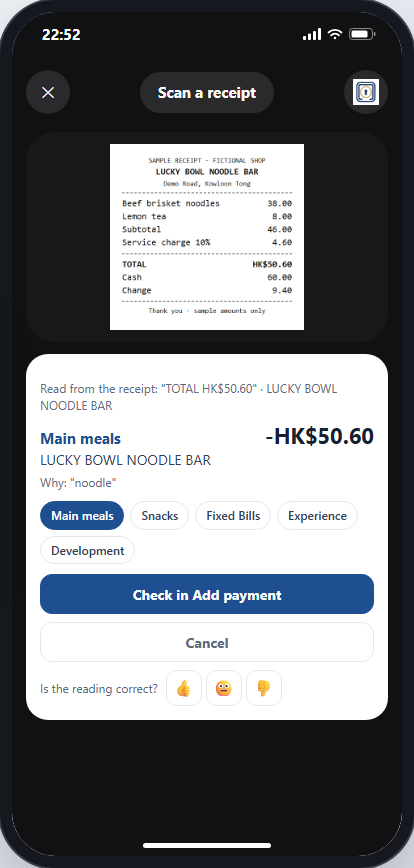
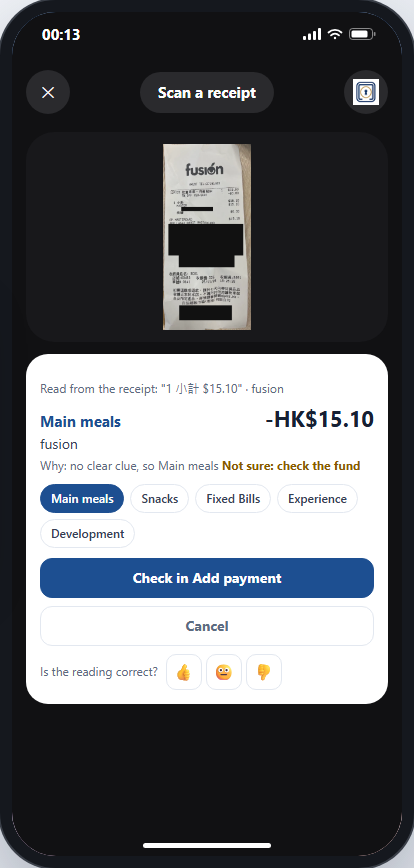
README: TestFlight steps, demo button, new demo screenshots; remove the limits and the video

diff --git a/backend/tests/test_readme.py b/backend/tests/test_readme.py
@@ -40,10 +40,6 @@ class Readme(unittest.TestCase):
             with self.subTest(path=path):
                 self.assertTrue((ROOT / path).is_file(), path)
 
-    def test_demo_video_link(self):
-        line = next((l for l in text().splitlines() if l.startswith("Demo video:")), "")
-        self.assertEqual(line, "Demo video: https://youtu.be/dwNjo46av5E")
-
     def test_no_long_dashes(self):
         self.assertNotIn("—", text())
         self.assertNotIn("–", text())

diff --git a/README.md b/README.md
@@ -4,9 +4,16 @@
 
 **A weekly budget for university students in Hong Kong that tells you what you can spend on food today, and where near campus that money still buys a meal.** Built for BUHack 2.0 (FinTech track).
 
-**Live demo:** <https://ssust-api.onrender.com> (Demo mode, sample week). It runs on Render's free plan, so after a quiet spell the first visit can take about a minute while the server wakes up. On a screen wider than 900 px the app sits inside a simulated phone; press **Show me around** for the 2 minute auto-play.
+**Live demo:** <https://ssust-api.onrender.com> (Demo mode, sample week). It runs on Render's free plan, so after a quiet spell the first visit can take about a minute while the server wakes up. On a screen wider than 900 px the app sits inside a simulated phone. Press **Play the demo** beside the phone (or **Show me around** in the welcome card) and it runs on its own for 2 minutes through the main features: quick add, an Apple Pay payment arriving, a real receipt scanned, overspending, the map, the Cooked score and the budget.
 
-Demo video: https://youtu.be/dwNjo46av5E
+![The live demo page: the simulated phone on its home screen, and beside it See it on its own with the Play the demo button, then the Demo controls](docs/screenshots/demo-button.png)
+
+## Try it on your iPhone (TestFlight)
+
+1. On your iPhone (iOS 15 or later), install **TestFlight** from the App Store.
+2. On the same iPhone, open <https://testflight.apple.com/join/KxvhjN2h> and tap **Accept**, then **Install**.
+3. Open the app (its name on the home screen is **UniVault**) and set your weekly budget. It uses the hosted server, so the first launch after a quiet spell can take about a minute.
+4. Optional: in **Settings > Apple Pay and widget**, copy the link and header into a Shortcuts automation ("When I tap any card in Wallet") so Apple Pay payments arrive in To review by themselves, and add the widget to your home screen (iOS 17 or later).
 
 ## What it does
 
@@ -25,19 +32,6 @@ You split your week's money into five funds (Main meals, Snacks, Fixed Bills, Ex
 - **Backup, restore and offline (iPhone).** The phone keeps a copy of all its data. When the free server has been wiped, the app restores it; when the server cannot be reached, the last saved numbers show read-only.
 - **Guided tour and auto-play.** A 15 step tour with bubbles on the real screens (Live and Demo), and a 2:00 auto-play of the main story for presentations (Demo only).
 
-## Honest limits
-
-- **No bank login, no bank API.** SSUST never connects to a bank or moves money. Amounts are typed, scanned, or sent by your own Shortcuts automation.
-- **Octopus is not supported as an automatic source.** An Octopus tap in Wallet does start the iOS automation, but iOS does not give Shortcuts the amount of a transit card tap. The app only keeps such a tap in To review for you to type the amount.
-- **Connected payments in the web demo are simulated.** The Apple Wallet, Octopus and HSBC switches and "Simulate an Apple Pay tap" create sample payments with fictional merchants. Only the iPhone app receives real Apple Pay payments (bank cards, through Shortcuts).
-- **Plain rules, not AI.** The fund choice, the overspend order, the typo check, the Cooked score and the warnings are fixed, tested rules on your own numbers. When nothing matches, quick add says "Not sure" and you pick the fund.
-- **Receipt reading can misread.** The amount, shop and fund are only pre-filled; you always check them.
-- **Prices are mostly estimates.** OpenStreetMap rarely has prices. Menu ranges can go out of date, the 20 chain ranges are one range for every branch and none has been checked in a shop yet, and no verified dish price ships.
-- **The hosted demo is shared and temporary.** Everyone who opens it sees the same demo data, and Render's free plan wipes the disk on every restart.
-- **The phone frame on the web is a simulation** for demos; the home screen icons are placeholders. The WidgetKit widgets are built on Codemagic but have not yet been run on a device.
-
-More detail in [Limits](#limits) below.
-
 ## Screenshots
 
 Taken from the real app in Demo mode (sample week, Wed 11 Nov 2026), inside the simulated phone shown on wide screens.
@@ -50,17 +44,17 @@ Taken from the real app in Demo mode (sample week, Wed 11 Nov 2026), inside the 
 
 ![Simulated home screen: HK$90 left today, Comfortable, the six funds this week, and the quick add widget with Added: Main meals -HK$50 (KFC dinner)](docs/screenshots/widgets.png)
 
-**Connected payments, simulated in the web demo.** A simulated Apple Pay tap arrives as a notification, then waits on Today in To review with a fund picked from the merchant name ("coffee": Snacks) and the effect on today.
+**Apple Pay payments.** The demo copies a real Apple Pay payment (HK$18 at 7-Eleven, simulated in the web demo, with a sample card). It arrives as a notification, then waits on Today in To review with a fund picked from the merchant name and the reason (here: no clear clue, so Main meals) and the effect on today.
 
-![A notification at the top of the phone: Apple Pay, Simulated, HK$38 at Sample Coffee Kiosk, tap to review](docs/screenshots/notification.png)
+![A notification at the top of the phone: Apple Pay, Simulated, HK$18 at 7-Eleven, Hk (1771), tap to review](docs/screenshots/notification.png)
 
-![The To review card on Today: Apple Pay, Simulated, HK$38, Sample Coffee Kiosk, Snacks picked from coffee, Confirm and Dismiss, Today left HK$52](docs/screenshots/review.png)
+![The To review card on Today: Apple Pay, Simulated, HK$18, 7-Eleven, Hk (1771), Main meals picked with the reason no clear clue, Confirm and Dismiss, Today left HK$72](docs/screenshots/review.png)
 
 ![Settings, Connected payments: Apple Wallet on, Octopus and HSBC off, marked Simulated, with Simulate an Apple Pay tap and the line Nothing here reads your bank](docs/screenshots/connected.png)
 
-**Scan a receipt.** A sample receipt read offline in the camera screen: TOTAL HK$50.60, the shop, Main meals and why. "Check in Add payment" opens the form pre-filled.
+**Scan a receipt.** A real fusion receipt from HKUST (card and reference numbers covered) read offline in the camera screen: HK$15.10 from the subtotal, matched by the card line, the shop, the fund and why. "Check in Add payment" opens the form pre-filled.
 
-![The camera screen after reading the Lucky Bowl Noodle Bar sample receipt: Main meals, HK$50.60, Why: noodle, and Check in Add payment](docs/screenshots/scan.png)
+![The camera screen after reading the fusion receipt: Read from the receipt 1 小計 $15.10, Main meals, HK$15.10, Why: no clear clue, Not sure: check the fund, and Check in Add payment](docs/screenshots/scan.png)
 
 **When a payment goes over.** A HK$160 main meal is HK$20 more than the HK$140 left today, so SSUST asks where the extra comes from. Nothing is saved until you confirm; it only moves budget between your own funds.
 
@@ -131,7 +125,7 @@ From the repository root, on any OS:
 python -m unittest discover -s backend/tests -t backend -v
 ```
 
-The suite (1026 tests) covers the money rules, input validation, dates, the SQLite store, the service layer, places, prices and budget fit, receipts, rewards, backup and restore, the wallet and widget endpoints, the HTTP API on a real server, the launchers (including a real `run.py` process), the frontend files, the demo timeline and this README. No test touches the network or your `data/` folder. GitHub Actions runs it on Ubuntu and Windows on every push and pull request to `ssust-app`.
+The suite (1029 tests) covers the money rules, input validation, dates, the SQLite store, the service layer, places, prices and budget fit, receipts, rewards, backup and restore, the wallet and widget endpoints, the HTTP API on a real server, the launchers (including a real `run.py` process), the frontend files, the demo timeline and this README. No test touches the network or your `data/` folder. GitHub Actions runs it on Ubuntu and Windows on every push and pull request to `ssust-app`.
 
 A smoke test starts SSUST on a free port with an empty, temporary data folder and checks every file the page loads and every endpoint the widgets use:
 
@@ -146,7 +140,7 @@ The same `frontend/` folder runs inside an iOS app made with **Capacitor 8** (Sw
 
 - `package.json` and `capacitor.config.json` (app id `com.adamattar.ssust`, web folder `frontend`) describe the shell; `ios/` is the Xcode project. It adds the `ReceiptScanner` plugin (`ios/App/App/ReceiptScanner.swift`, Apple Vision text recognition in English, Traditional and Simplified Chinese) and the widget extension (`ios/App/SSUSTWidget`).
 - After changing `frontend/`, run `npx cap sync ios` (Node 22 or later) to copy it into the iOS project.
-- **Build:** `codemagic.yaml` has one workflow, **`ios-testflight`**, on a Codemagic Mac mini M2: `npm ci`, `npx cap sync ios`, automatic code signing through the App Store Connect integration (no key, certificate or profile is stored in this repository), a build number one above the latest TestFlight build, `xcode-project build-ipa`, then upload to App Store Connect. Internal testers get every build on **TestFlight**; external beta review is requested by hand.
+- **Build:** `codemagic.yaml` has one workflow, **`ios-testflight`**, on a Codemagic Mac mini M2: `npm ci`, `npx cap sync ios`, automatic code signing through the App Store Connect integration (no key, certificate or profile is stored in this repository), a build number one above the latest TestFlight build, `xcode-project build-ipa`, then upload to App Store Connect. Internal testers get every build on **TestFlight**; external beta review is requested by hand. Anyone can join the beta with the public link in [Try it on your iPhone](#try-it-on-your-iphone-testflight).
 - Inside the app there is no phone frame and no demo. API calls go to the hosted server (`NATIVE_API_BASE` in `frontend/js/config.js`, the Render service `ssust-api`). Each phone sends a random id of its own (`X-SSUST-Device`) and gets its own data on the server (`data/devices/<id>/`, at most 200 phones per server). The server answers the app origin (`capacitor://localhost`) with CORS headers on `/api/` only; every other origin gets none.
 
 **Apple Pay (Shortcuts).** Settings > **Apple Pay and widget** gives the URL and this phone's header to paste into a Shortcuts automation ("When I tap any card in Wallet" > Get Contents of URL, POST, JSON `amount`, `merchant`, `card`). The amount is read from text like "HK$38.00" or a JSON number, always into integer cents. Bank cards in Apple Pay are fully automatic: amount, merchant and card arrive by themselves. **Octopus is not:** iOS gives Shortcuts no amount for a transit card tap, so SSUST keeps it in To review as "Octopus tap at hh:mm | amount?" and you type the amount (Confirm needs an amount above zero and runs the usual typo check). iOS can fire the automation twice for one tap, so taps of the same card on the same phone within 2 minutes are one item, and a later message with the amount fills it in. A run with every field empty is the play-button test ("Test run: the link works"). Settings shows which fields the last message carried (names only, never the amount or the merchant). Manual check: [docs/OCTOPUS_TEST.md](docs/OCTOPUS_TEST.md).
@@ -296,7 +290,7 @@ Levels: **Chill** (under 20), **Fine** (under 40), **Sweating** (under 60), **Co
 3. `assistant.parse_entry` picks the fund from the merchant, gives the reason, and runs the typo check.
 4. Add payment opens **pre-filled** ("Read from receipt: check it"). **It never saves by itself.**
 
-The camera screen has a **Samples** row of six sample receipt images (`frontend/img/samples/`), all marked Sample, that go through the same real OCR.
+The camera screen has a **Samples** row (`frontend/img/samples/`) that goes through the same real OCR: a real fusion receipt photo (card and reference numbers covered) and six fictional receipts marked Sample.
 
 ## Where can I eat with what's left
 
@@ -325,12 +319,12 @@ The Map's **Groceries** mode shows supermarkets and convenience stores, 15 simpl
 
 ![Auto-play, step 6 of 10, the overspend step for a HK$160 main meal](docs/screenshots/tour-2.png)
 
-![Auto-play, step 5 of 10, the receipt scan step: the sample receipt read as HK$50.60, Main meals](docs/screenshots/tour-scan.png)
+![Auto-play, step 5 of 10, the receipt scan step: the fusion receipt read as HK$15.10, Main meals](docs/screenshots/tour-scan.png)
 
 ![Auto-play, step 7 of 10, the map step: places near HKUST with their menu ranges and the source of the first one](docs/screenshots/tour-3.png)
 
 - **Guided tour:** the **?** button in the header (or "Take the tour" in Settings > Demo & help). It works in Live and Demo and only moves between screens: it never saves anything. Fifteen steps: the widgets, today's money, the next 30 days, this week, the funds as tanks, adding a payment, the overspend step, undo, quick add, receipt scan, connected payments, Week, and the map.
-- **Auto-play** (Demo only): **Show me around** in the welcome card, or **Play the demo** in Settings > Demo & help. One timeline, 10 steps in exactly 2:00: today's HK$140 and the Cooked meter, quick add `$50 KFC dinner` (HK$90 left), a simulated Apple Pay notification, the review (HK$52 left), a sample receipt read offline and saved, the HK$160 overspend step and Undo, the map with menu and chain prices, the Cooked score across three demo weeks, the budget sliders, and an honest outro. The timeline lives in `frontend/js/demo-timeline.js`; [docs/DEMO_SCRIPT.md](docs/DEMO_SCRIPT.md) with timestamps and narration is generated from it (`python tools/demo_script.py --write`, which fails if the total is over 2:00). Pause, Back, Next, **Restart** and **Skip tour** are on the caption; add `?timer=0` to hide the corner timer.
+- **Auto-play** (Demo only): **Play the demo** beside the phone, **Show me around** in the welcome card, or **Play the demo** in Settings > Demo & help. One timeline, 10 steps in exactly 2:00: today's HK$140 and the Cooked meter, quick add `$50 KFC dinner` (HK$90 left), a simulated Apple Pay notification (HK$18 at 7-Eleven), the review (HK$72 left), the real fusion receipt read offline and saved (HK$15.10, HK$56.90 left), the HK$160 overspend step and Undo, the map with menu and chain prices, the Cooked score across three demo weeks, the budget sliders, and an honest outro. The timeline lives in `frontend/js/demo-timeline.js`; [docs/DEMO_SCRIPT.md](docs/DEMO_SCRIPT.md) with timestamps and narration is generated from it (`python tools/demo_script.py --write`, which fails if the total is over 2:00). Pause, Back, Next, **Restart** and **Skip tour** are on the caption; add `?timer=0` to hide the corner timer.
 - **Record mode:** open `/?record=1`. A pointer glides to each control before the same real click happens; captions stay as subtitles, the buttons and demo controls are hidden. Space starts a take, Esc stops it.
 - **Safety:** auto-play refuses to start in Live and never auto-starts. It resets the demo week before it begins and again when it ends, is skipped, or stops because something failed. A reload in the middle of a run resets the demo week on the next load.
 - **Phone view:** on screens wider than 900 px the app sits inside a generic phone frame with a status bar, a swipeable home screen with widgets, and its own simulated notifications (Settings > Display > Phone view turns it off). Elsewhere, the **Widgets** button in the header opens the same home screen full screen.
@@ -394,20 +388,6 @@ Start with the smoke test (`python scripts/smoke_fresh_clone.py`, see [Running t
 | `Could not open the data folder ... newer` | The `data/` folder was written by a newer version. Run `python run.py --data data-new` for a separate folder. |
 | `Untrusted host.` | Open <http://127.0.0.1:8765> or <http://localhost:8765>. |
 | Receipt reading never finishes | The browser reader needs WebAssembly SIMD (Chrome, Edge, Firefox, Safari 16.4 or newer). Type the amount instead. |
-
-## Limits
-
-- **No bank connection and no real money.** You type, scan, or send (Apple Pay through Shortcuts) what you spend. Apple's FinanceKit does not cover Hong Kong and needs a special entitlement; Octopus and HSBC have no public API for individuals.
-- **Octopus has no automatic amount.** iOS gives Shortcuts no amount for an Octopus tap, so it is not supported as an automatic source; such a tap waits in To review for you to type the amount. If iOS ever sent a tap with every field empty, it would look exactly like the play-button test and be ignored.
-- **Connected payments are simulated in the web demo.** A "tap" there is a sample payment with a fictional merchant.
-- **Plain rules, not AI.** Fund picking is chain names and keywords; it says "Not sure" when nothing matches.
-- **Receipt scanning can misread**; you always confirm. On the web, the first scan loads about 8 MB of OCR files from the app itself.
-- **Prices are mostly estimates.** 11 places have an official menu range (menus change), 20 chain ranges are not yet checked in a shop, verified dish prices ship empty. The chains' own sites show no prices and the delivery sites refuse automated reading, so no other prices were added.
-- **The ranking only covers the nearest 60 places** in the chosen radius.
-- **Blank map tiles offline.** Without the internet, pins and the list still work from the snapshot, but the street map behind them stays blank. OpenStreetMap's tile servers are meant for light demo use.
-- **The hosted server is shared and wiped on restart** (free plan). `run.py` is one user per computer and listens on `127.0.0.1` only.
-- **iPhone app: the server is a cache, the phone copy is the backup.** Deleting the app deletes its copy and its id. A restore keeps what the server already has (a budget set on the empty server before the restore wins over the copy's). The copy is only as recent as the last time the app reached the server. The widget keeps its last numbers while the server sleeps, but right after a wipe it can show "set your budget" until the app is opened once.
-- **The web phone frame is a simulation** for demos; the home screen icons are placeholders. The WidgetKit widgets are built on Codemagic but not yet run on a device.
 
 ## Credits
 
